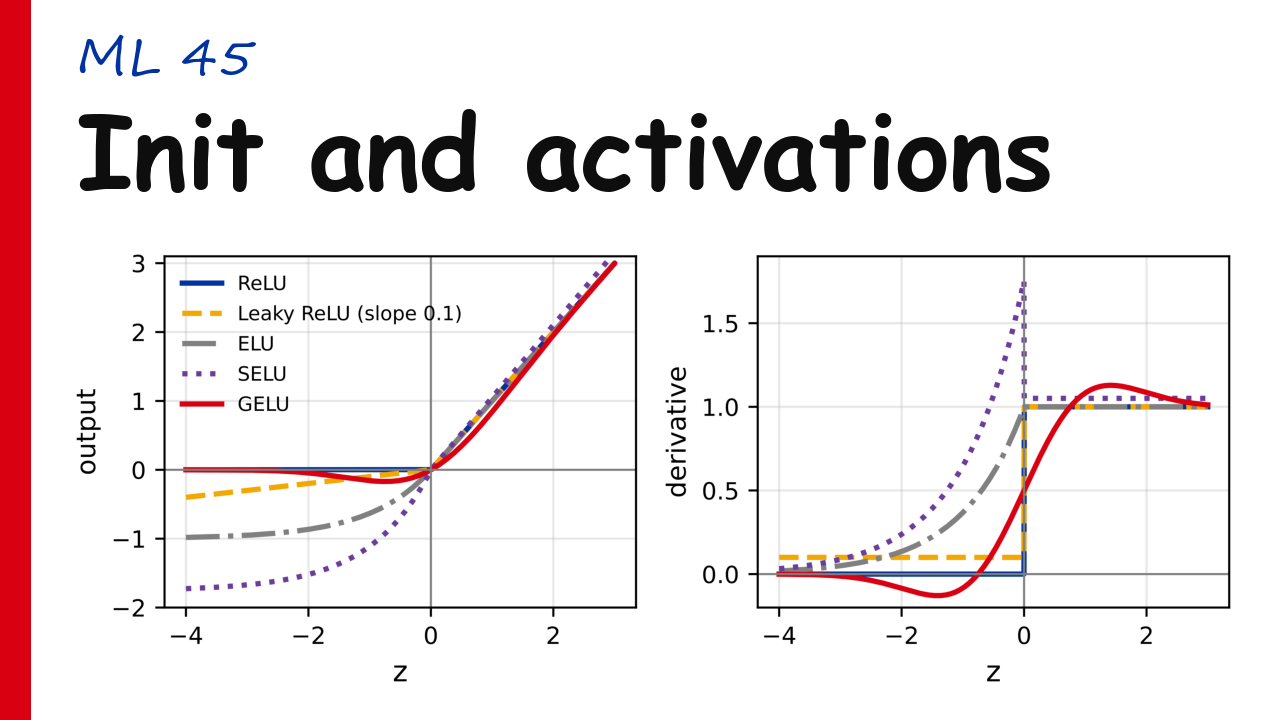
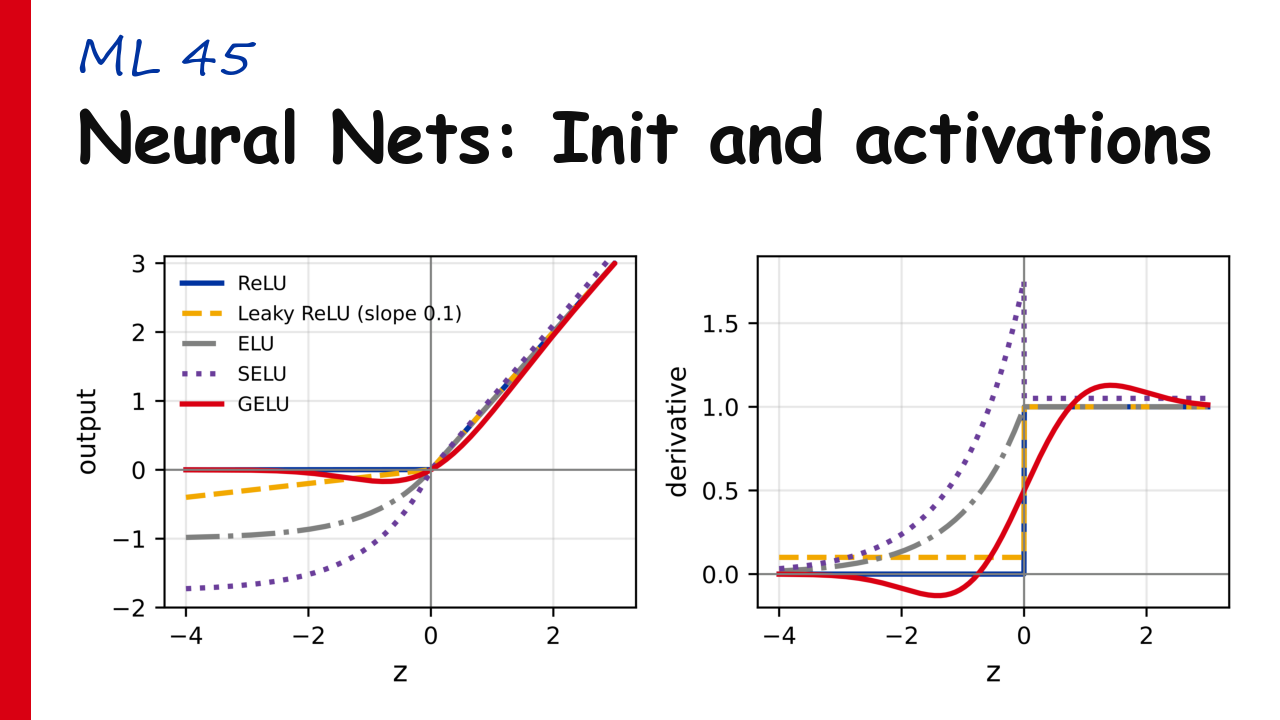
Retitle ML45's thumbnail "Neural Nets: Init and activations"
Keeps the series prefix ML43 and ML44 carry, so the deep-learning block reads
as one run at a glance. The longer string auto-fits smaller than ML44's, but
still fills the width.

Changed region(s): [[0.0625, 0.1528, 0.9688, 0.275]]

diff --git a/scripts/make_thumbnails_final.py b/scripts/make_thumbnails_final.py
@@ -1795,7 +1795,7 @@ LESSONS = [
     # ML 45 - initialization + activation functions (lecture): the ReLU family
     # and its derivatives.
     {
-        "tag": "ML 45", "title": "Init and activations",
+        "tag": "ML 45", "title": "Neural Nets: Init and activations",
         "title_size": 50, "title_max": 74, "title_latin": True,
         "draw": draw_ml45_init_activations,
         "bar_color": DL_BAR,
